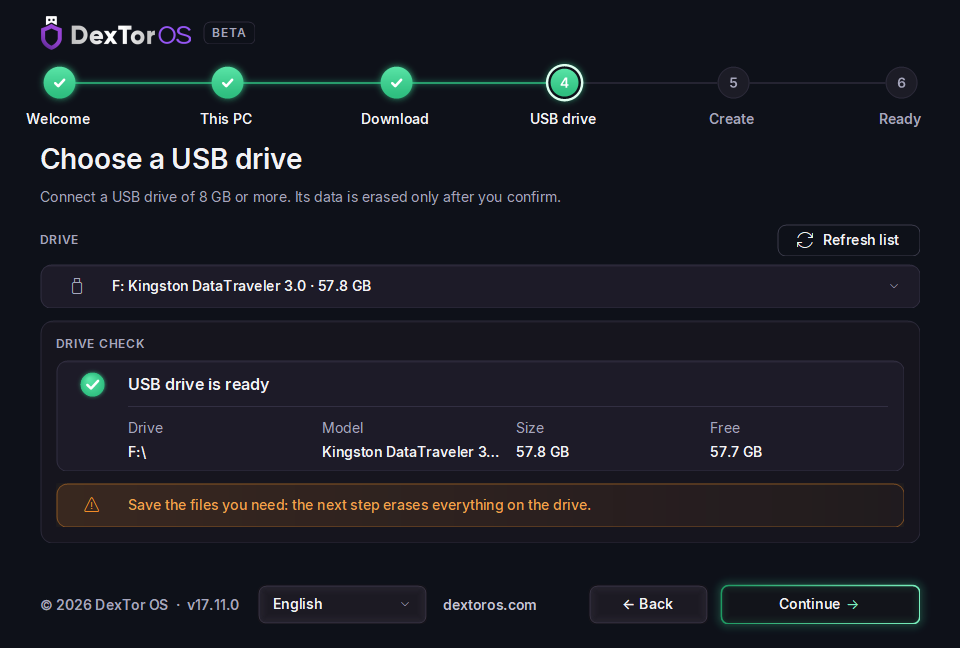
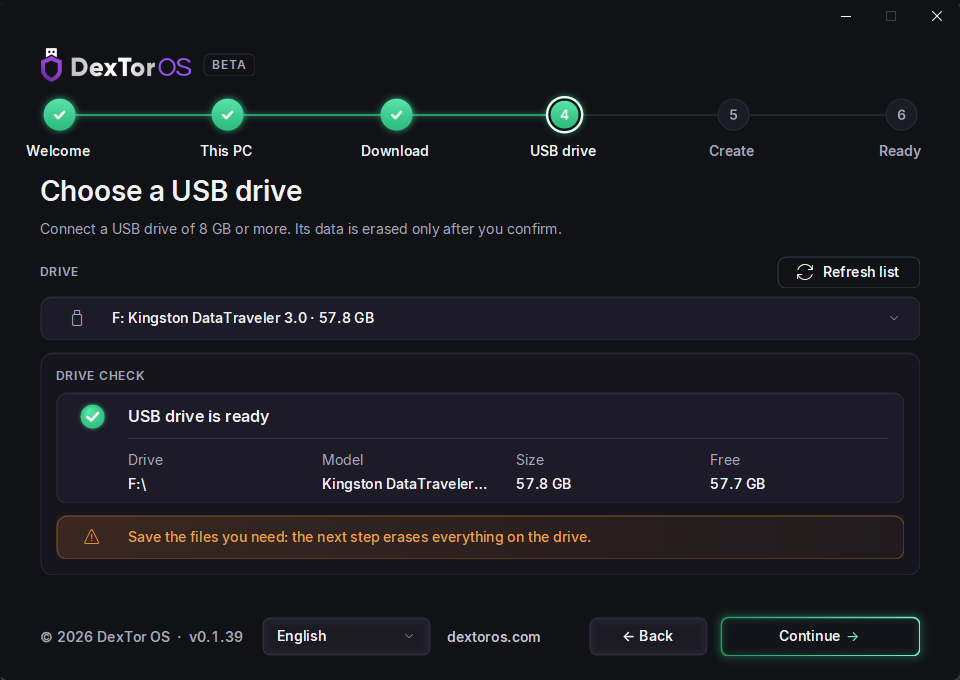
Refresh screenshots, architecture diagrams and public documentation

diff --git a/README.md b/README.md
@@ -8,7 +8,6 @@
 
 [![Platform](https://img.shields.io/badge/platform-Windows%2011%20x64-0f172a?logo=windows11&logoColor=white)](#requirements)
 [![.NET](https://img.shields.io/badge/.NET-10-512bd4?logo=dotnet&logoColor=white)](https://dotnet.microsoft.com/)
-[![Build](https://github.com/dextoros/dextor-launcher/actions/workflows/build.yml/badge.svg)](https://github.com/dextoros/dextor-launcher/actions/workflows/build.yml)
 [![Release](https://img.shields.io/github/v/release/dextoros/dextor-launcher?include_prereleases&color=8b5cf6)](https://github.com/dextoros/dextor-launcher/releases)
 [![License](https://img.shields.io/badge/license-source--available-8b5cf6)](LICENSE)
 
@@ -44,7 +43,7 @@ exactly what it does on a computer and to a USB drive - and what it does not.
 | 🔐 **Private storage** | A dedicated `data.img` is provided to DexTor OS for guest-managed LUKS encryption. The launcher prevents concurrent DexTor sessions for the same storage; it does not hold an exclusive file handle throughout the session. |
 | 🧳 **Portable, no system-wide installation** | One self-contained `.exe`, no separate .NET installation required. Downloads, the QEMU runtime, settings and diagnostic logs are kept in `%LOCALAPPDATA%\DexTor`; QEMU is not added to `PATH`. |
 | ⏯ **Resumable and recoverable** | Downloads continue where they stopped. Creating a drive is a journaled transaction: after a crash or an unplugged stick it can be safely started again. |
-| 🔑 **Administrator rights only when needed** | For USB writes, the portable executable starts a separate elevated process in provisioner mode; the wizard itself runs as you. |
+| 🔑 **Administrator rights only when needed** | For USB writes, the portable executable starts a separate elevated process in provisioner mode; the wizard normally runs as you. Enabling Windows Hypervisor Platform also needs administrator approval. |
 | 🌍 **10 languages** | English, Russian, Ukrainian, German, Spanish, French, Brazilian Portuguese, Polish, Turkish and Simplified Chinese - switched live, without a restart. |
 
 ## How it works
@@ -56,9 +55,13 @@ exactly what it does on a computer and to a USB drive - and what it does not.
 </tr>
 <tr>
 <td width="50%"><img src=".github/assets/screenshots/creating.png" alt="Creating the drive"><br><sub><b>3. Create</b> - erase, write, verify, with live progress.</sub></td>
-<td width="50%"><img src=".github/assets/screenshots/ready.png" alt="The drive is ready"><br><sub><b>4. Ready</b> - start DexTor OS in Windows when virtualization is available, or boot from the stick.</sub></td>
+<td width="50%"><b>4. Ready</b><br>After verification, start DexTor OS in Windows when virtualization is available, or boot from the stick on a compatible PC. Close DexTor OS before removing the USB drive.</td>
 </tr>
 </table>
+
+Screenshots show the English v0.1.39 interface. Download sizes, timings and hardware
+values are examples; direct boot depends on compatible hardware. The launcher does not
+guarantee that guest data is erased at shutdown.
 
 The finished stick is a hybrid drive: the verified DexTor OS live image with its own
 UEFI/GRUB boot paths, plus an extra NTFS partition named `DEXTOR` holding a second copy of
@@ -66,26 +69,15 @@ the system image and the private `data.img`.
 
 ## Architecture
 
-```mermaid
-flowchart LR
-    subgraph Windows host
-        L["DexTor.Launcher<br/><sub>setup wizard</sub>"]
-        A["DexTor.Application<br/><sub>flows, preflight, localization</sub>"]
-        R["DexTor.Release<br/><sub>download + verify</sub>"]
-        P["DexTor.Provisioner<br/><sub>elevated USB writer</sub>"]
-        S["DexTor.SessionHost<br/><sub>VM session, storage lock</sub>"]
-        Q["DexTor.Qemu<br/><sub>launch plan, QMP</sub>"]
-        W["DexTor.Platform.Windows<br/><sub>Win32 adapters</sub>"]
-    end
-    VM[("QEMU + WHPX<br/>DexTor OS")]
-    USB[("USB drive<br/>system image + data.img")]
+<picture>
+  <source media="(prefers-color-scheme: dark)" srcset="docs/architecture-dark.svg">
+  <img src="docs/architecture-light.svg" alt="Launcher components, elevated USB provisioning, and a QEMU virtual machine on the Windows host using the USB drive." width="100%">
+</picture>
 
-    L --> A --> R
-    A --> W
-    L -- "UAC, typed requests" --> P --> USB
-    L --> S --> Q --> VM
-    VM -- "virtio block" --> USB
-```
+This is a logical component diagram, not a security boundary. QEMU and its guest VM run
+on the Windows host. Session ownership prevents concurrent DexTor sessions; it is not
+an exclusive file lock. Optional Windows Hypervisor Platform preparation also requires
+administrator approval.
 
 | Project | Responsibility |
 |---|---|
@@ -125,6 +117,19 @@ To remove the launcher and its local cache, finish USB creation, close DexTor OS
 then delete the portable executable and `%LOCALAPPDATA%\DexTor`. This does not erase the USB
 drive or remove records Windows itself may retain, such as execution history or security logs.
 
+## Verify a download
+
+Download the portable executable from [GitHub Releases](https://github.com/dextoros/dextor-launcher/releases)
+and compare its SHA-256 with the value in that exact release's notes:
+
+```powershell
+Get-FileHash -Algorithm SHA256 -LiteralPath '.\DexTorOS-Portable-VERSION-win-x64.exe'
+```
+
+Replace `VERSION` with the downloaded version. A matching hash checks file integrity;
+it does not establish a trusted publisher. The v0.1.39 executable is unsigned. If the
+hash differs, do not run the file; report the mismatch.
+
 ## Building from source
 
 You need the [.NET 10 SDK](https://dotnet.microsoft.com/download/dotnet/10.0).
@@ -157,5 +162,5 @@ Third-party components keep their own licenses - see
 [THIRD-PARTY-NOTICES.md](packaging/THIRD-PARTY-NOTICES.md).
 
 <div align="center">
-<sub>© 2026 DexTor OS · <a href="https://dextoros.com">dextoros.com</a></sub>
+<sub>© 2026 DexTor OS Team · <a href="https://dextoros.com">dextoros.com</a></sub>
 </div>

diff --git a/SECURITY.md b/SECURITY.md
@@ -1,6 +1,6 @@
 # Security policy
 
-The launcher writes raw disks with administrator rights and handles a private, encrypted
+The launcher writes raw disks with administrator rights and provides guest-managed private
 storage, so we take security reports seriously.
 
 ## Reporting a vulnerability
@@ -15,7 +15,7 @@ Include, if you can:
 - what an attacker can do, and the steps to reproduce it;
 - a proof of concept, logs or a diagnostic report, with personal data removed.
 
-We will acknowledge the report within 3 working days, keep you informed while we work on a fix,
+We aim to acknowledge the report within 3 working days, keep you informed while we work on a fix,
 and credit you in the release notes unless you prefer otherwise.
 
 ## Supported versions
@@ -27,3 +27,16 @@ Only the latest release receives security fixes.
 In scope: the launcher, the elevated USB provisioner, the session host, the installer and the
 update flow in this repository. QEMU and the DexTor OS guest are separate projects; report
 issues in them to their maintainers, or to us if you are unsure where they belong.
+
+## Coordinated disclosure
+
+Please allow up to 90 days from your initial report for investigation and a fix, or disclose
+after a fix is released if that happens sooner. Any extension should be explicitly agreed
+with you; reporting does not require waiting indefinitely for a fix.
+
+Test only on systems and USB drives you own or have permission to test. Avoid disruption,
+denial of service, and access to other people's data. If you encounter personal data,
+stop testing and report the minimum details needed to explain the issue privately.
+
+This policy does not grant rights over third-party systems or components. Third-party
+licenses remain applicable.

diff --git a/.github/releases/v0.1.39.md b/.github/releases/v0.1.39.md
@@ -16,7 +16,7 @@ source code is published.
   before the drive is marked ready.
 - Starts DexTor OS inside Windows on a pinned, verified QEMU with the Windows Hypervisor Platform,
   sized to the computer. The boot is shown as steps behind a DexTor splash, and the window opens
-  full screen at the monitor's own resolution once the desktop is ready.
+  maximized on the launcher's monitor, at that monitor's resolution, once the guest has drawn its first frame.
 - Gives DexTor OS one private `data.img` on the stick in both modes, for its LUKS-encrypted
   storage, and never runs two DexTor sessions on the same storage at once.
 - Speaks 10 languages and hands the selected one to DexTor OS.
